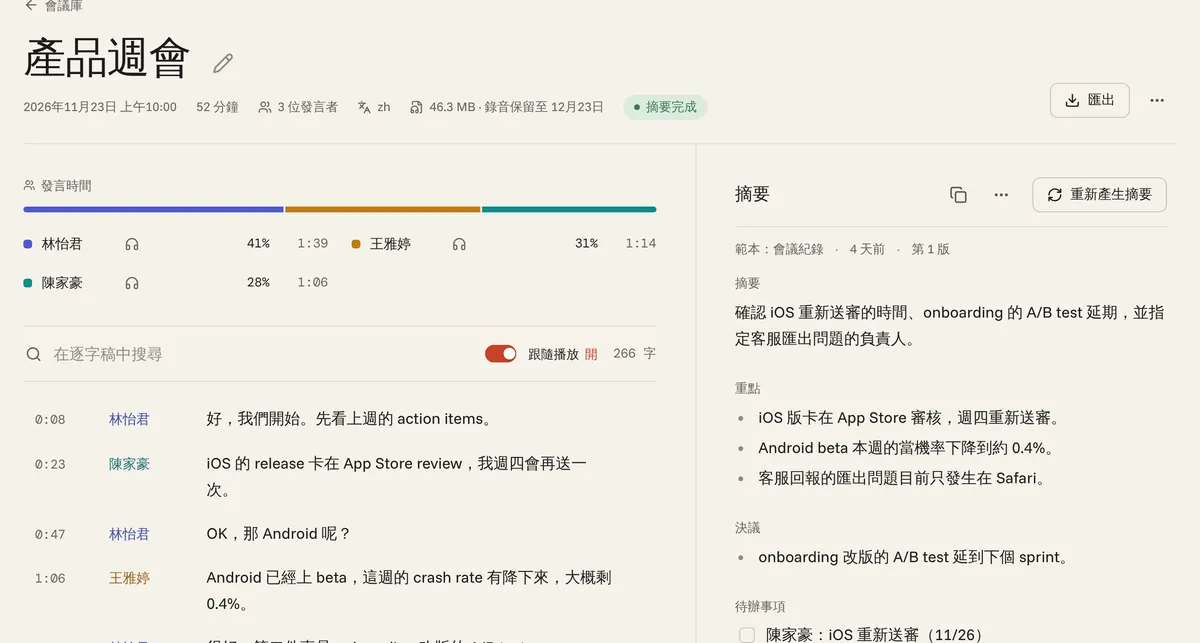
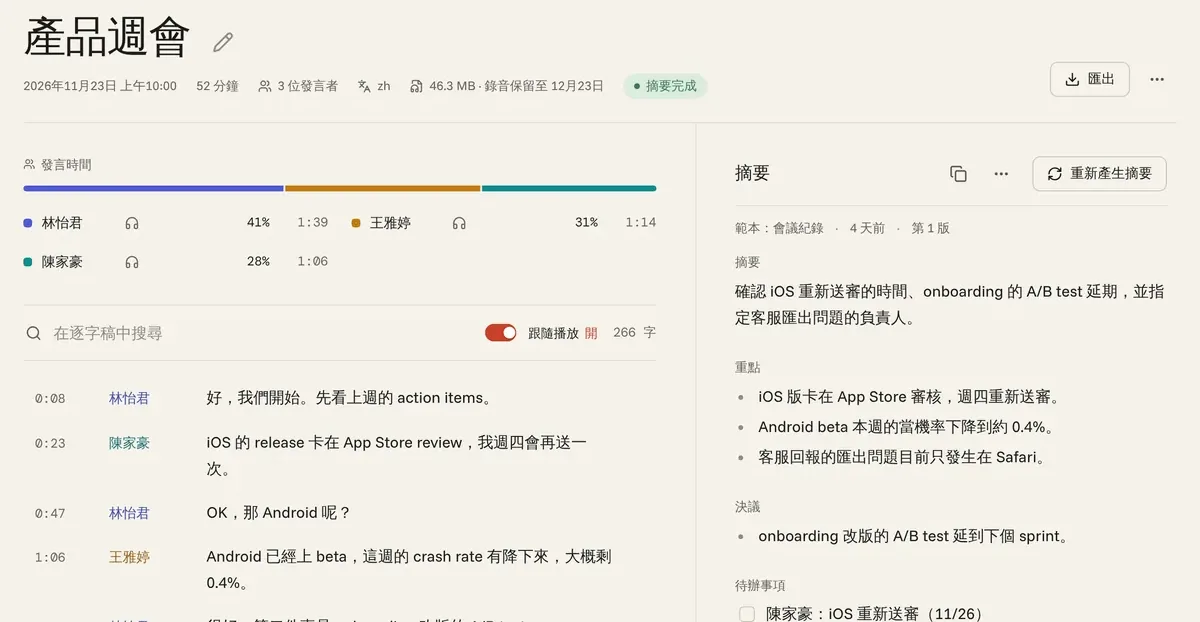
Landing page: meeting screenshots start at the title
The ← 會議庫 back link is cropped off the top of the meeting page
screenshots (desktop and phone); the image sizes in the page follow.

Claude-Session: https://claude.ai/code/session_01Ewn2Rs5VvAK9tPa8tLgUxn

diff --git a/frontend/public/welcome/index.html b/frontend/public/welcome/index.html
@@ -244,8 +244,8 @@ section[data-moment="pinned-chapters"] .mo-pc__visual > img.shot--fit { width: a
       </div>
       <figure class="app-shot fill">
         <picture>
-          <source media="(max-width: 639px)" srcset="shots/meeting-phone-680.webp" width="680" height="1813">
-          <img class="shot" src="shots/meeting-1920.webp" srcset="shots/meeting-1200.webp 1200w, shots/meeting-1920.webp 1920w" sizes="(max-width: 1279px) calc(100vw - 96px), 1280px" width="1920" height="1029" alt="產品週會的會議頁面：上方是發言時間（林怡君 41%、王雅婷 31%、陳家豪 28%）和逐字稿，每句附時間與發言者，中文夾雜英文；右邊是依範本「會議紀錄」整理的摘要、重點、決議和待辦事項" loading="lazy" decoding="async">
+          <source media="(max-width: 639px)" srcset="shots/meeting-phone-680.webp" width="680" height="1709">
+          <img class="shot" src="shots/meeting-1920.webp" srcset="shots/meeting-1200.webp 1200w, shots/meeting-1920.webp 1920w" sizes="(max-width: 1279px) calc(100vw - 96px), 1280px" width="1920" height="995" alt="產品週會的會議頁面：上方是發言時間（林怡君 41%、王雅婷 31%、陳家豪 28%）和逐字稿，每句附時間與發言者，中文夾雜英文；右邊是依範本「會議紀錄」整理的摘要、重點、決議和待辦事項" loading="lazy" decoding="async">
         </picture>
       </figure>
     </div>
